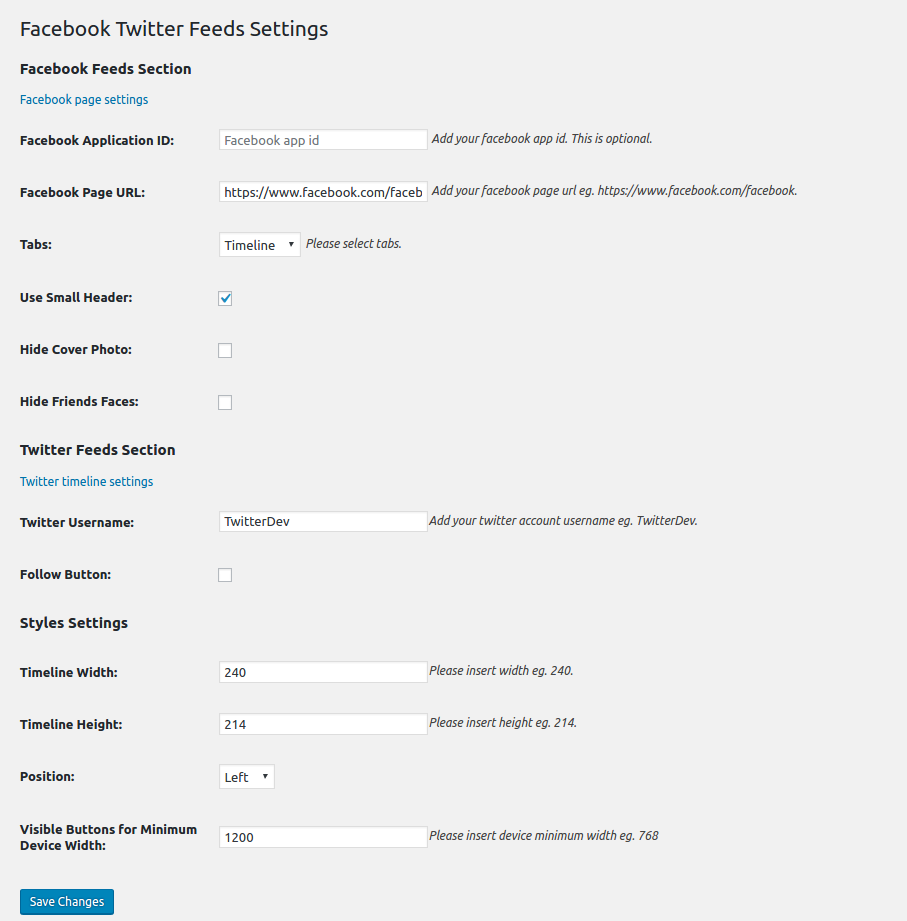
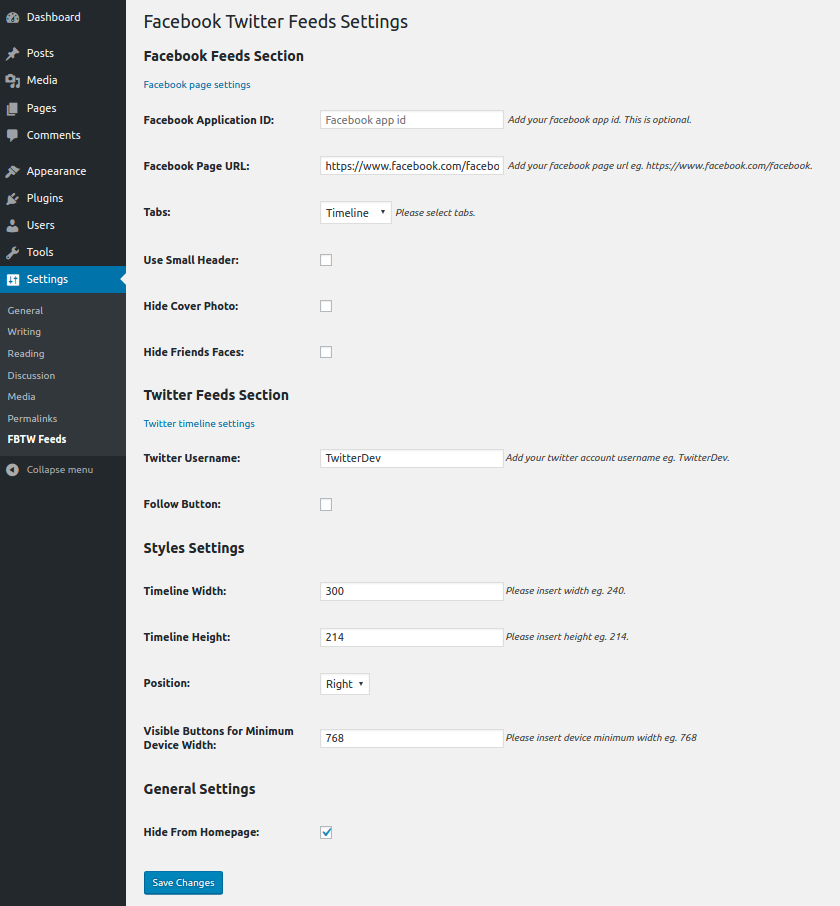
Add files via upload

diff --git a/frontend.php b/frontend.php
@@ -10,9 +10,25 @@ if ( ! defined( 'ABSPATH' ) ) exit; // Exit if accessed directly
 //Insert buttons into the footer before </body> tag
 function sdfbtw_custom_function() {
     
-    global $wpdb, $fb_tw_options, $fbtw_timeline_width, $fbtw_timeline_height; ?>
+    global $fb_tw_options;
+    
+    if( isset($fb_tw_options['section_general_settings_hide_from_homepage']) ){
+        if( !is_home() && !is_front_page() ){
+            show_fbtw_feeds();
+        }
+    } else {
+        show_fbtw_feeds();
+    }
+}
 
-    <div id="fb-tw-feeds">
+add_action('wp_footer', 'sdfbtw_custom_function');
+
+
+function show_fbtw_feeds() {
+	
+	global $fb_tw_options, $fbtw_timeline_width, $fbtw_timeline_height; ?>
+	
+	<div id="fb-tw-feeds">
         <?php if(isset($fb_tw_options['section_facebook_page_url']) && $fb_tw_options['section_facebook_page_url'] != ''){ ?>
             <div id="facebook" class="facebook_feeds facebook_twitter_common">
                 <div id="facebook_icon" class="fb-tw-icons"></div>
@@ -25,22 +41,20 @@ function sdfbtw_custom_function() {
         
         $username = ($fb_tw_options['section_twitter_username']) ? $fb_tw_options['section_twitter_username'] : '';
         if(isset($username) && $username != ''){ ?>
-        <div id="twitter" class="twitter_feeds facebook_twitter_common">
-            <div id="twitter_icon" class="fb-tw-icons"></div>
-            <div class="twitter_box">
-                <?php                
-                if(isset($fb_tw_options['section_twitter_follow_button']) && $fb_tw_options['section_twitter_follow_button'] == '1'){ ?>
-                    <div class="twitter-follow-box">
-                        <a class="twitter-follow-button" data-show-count="<?php echo ($fb_tw_options['section_twitter_follow_button_count_hide']) ? 'false' : 'true'; ?>" data-show-screen-name="<?php echo ($fb_tw_options['section_twitter_follow_button_username_hide']) ? 'false' : 'true'; ?>" data-size="<?php echo ($fb_tw_options['section_twitter_follow_button_large']) ? 'large' : ''; ?>" href="https://twitter.com/<?php echo $username; ?>">Follow @<?php echo $username; ?></a>
-                    </div>
-                <?php } ?>                
-                <a class="twitter-timeline" data-width="<?php echo $fbtw_timeline_width; ?>" data-height="<?php echo $fbtw_timeline_height; ?>" href="https://twitter.com/<?php echo $username; ?>">Tweets by <?php echo $username; ?></a>
-                <script async src="//platform.twitter.com/widgets.js" charset="utf-8"></script>
+            <div id="twitter" class="twitter_feeds facebook_twitter_common">
+                <div id="twitter_icon" class="fb-tw-icons"></div>
+                <div class="twitter_box">
+                    <?php                
+                    if(isset($fb_tw_options['section_twitter_follow_button']) && $fb_tw_options['section_twitter_follow_button'] == '1'){ ?>
+                        <div class="twitter-follow-box">
+                            <a class="twitter-follow-button" data-show-count="<?php echo ($fb_tw_options['section_twitter_follow_button_count_hide']) ? 'false' : 'true'; ?>" data-show-screen-name="<?php echo ($fb_tw_options['section_twitter_follow_button_username_hide']) ? 'false' : 'true'; ?>" data-size="<?php echo ($fb_tw_options['section_twitter_follow_button_large']) ? 'large' : ''; ?>" href="https://twitter.com/<?php echo $username; ?>">Follow @<?php echo $username; ?></a>
+                        </div>
+                    <?php } ?>                
+                    <a class="twitter-timeline" data-width="<?php echo $fbtw_timeline_width; ?>" data-height="<?php echo $fbtw_timeline_height; ?>" href="https://twitter.com/<?php echo $username; ?>">Tweets by <?php echo $username; ?></a>
+                    <script async src="//platform.twitter.com/widgets.js" charset="utf-8"></script>
+                </div>
             </div>
-        </div>
         <?php } ?>
     </div>
-    <?php
+<?php
 }
-
-add_action('wp_footer', 'sdfbtw_custom_function');

diff --git a/admin-settings.php b/admin-settings.php
@@ -236,6 +236,27 @@ class sdfbtwPageSettings {
                 'facebook_twitter_feeds_options', // Page
                 'setting_section_styles' // Section ID           
         );
+        
+        
+        /*********************************************************************************************
+         * 
+         *  General Settings
+         * 
+         * *******************************************************************************************/
+        add_settings_section(
+                'setting_section_general_settings', // ID
+                'General Settings', // Title
+                array($this, 'print_setting_section_general_settings'), // Callback
+                'facebook_twitter_feeds_options' // Page
+        );
+        
+        add_settings_field(
+                'section_general_settings_hide_from_homepage', // ID
+                'Hide From Homepage:', // Title 
+                array($this, 'section_general_settings_hide_from_homepage_callback'), // Callback
+                'facebook_twitter_feeds_options', // Page
+                'setting_section_general_settings' // Section ID           
+        );
     }
 
     /**
@@ -297,6 +318,9 @@ class sdfbtwPageSettings {
         
         if (isset($input['section_visible_on_minimum_device_width']))
             $new_input['section_visible_on_minimum_device_width'] = $input['section_visible_on_minimum_device_width'];
+        
+        if (isset($input['section_general_settings_hide_from_homepage']))
+            $new_input['section_general_settings_hide_from_homepage'] = $input['section_general_settings_hide_from_homepage'];
 
         return $new_input;
     }
@@ -316,6 +340,9 @@ class sdfbtwPageSettings {
         //print 'CSS settings';
     }
 
+    public function print_setting_section_general_settings() {
+        //print 'General settings';
+    }
     /*     * **********************************************************************************
      *
      *  Get the settings option array and print one of its values description
@@ -436,6 +463,13 @@ class sdfbtwPageSettings {
                 '<input type="text" id="section_visible_on_minimum_device_width" name="facebook_twitter_feeds_options[section_visible_on_minimum_device_width]" value="%s" placeholder="Minimum device width 768" /><span class="description">Please insert device minimum width eg. 768</span>', isset($this->options['section_visible_on_minimum_device_width']) ? esc_attr($this->options['section_visible_on_minimum_device_width']) : ''
         );
     }
+    
+    // Section twitter follow button
+    public function section_general_settings_hide_from_homepage_callback() {
+        printf(
+                '<input type="checkbox" id="section_general_settings_hide_from_homepage" class="hide-from-home-page" name="facebook_twitter_feeds_options[section_general_settings_hide_from_homepage]" value="1"' . checked( 1, $this->options['section_general_settings_hide_from_homepage'], false ) . '/>'
+        );
+    }    
 }
 
 /* * **Class End here**** */

diff --git a/index.php b/index.php
@@ -1,8 +1,8 @@
 <?php
 /*
-  Plugin Name: FBTW Feeds
+  Plugin Name: Facebook Twitter Feeds
   Description: A powerful Facebook and Twitter integration that allows you to display facebook (timeline, events and messages), twitter follow button and twitter timeline for your wordpress website.
-  Version: 1.0
+  Version: 1.1
   Author: Shahaji Deshmukh
   Author URI: https://profiles.wordpress.org/shahaji9
   Plugin URI: https://wordpress.org/plugins/fbtw-feeds
